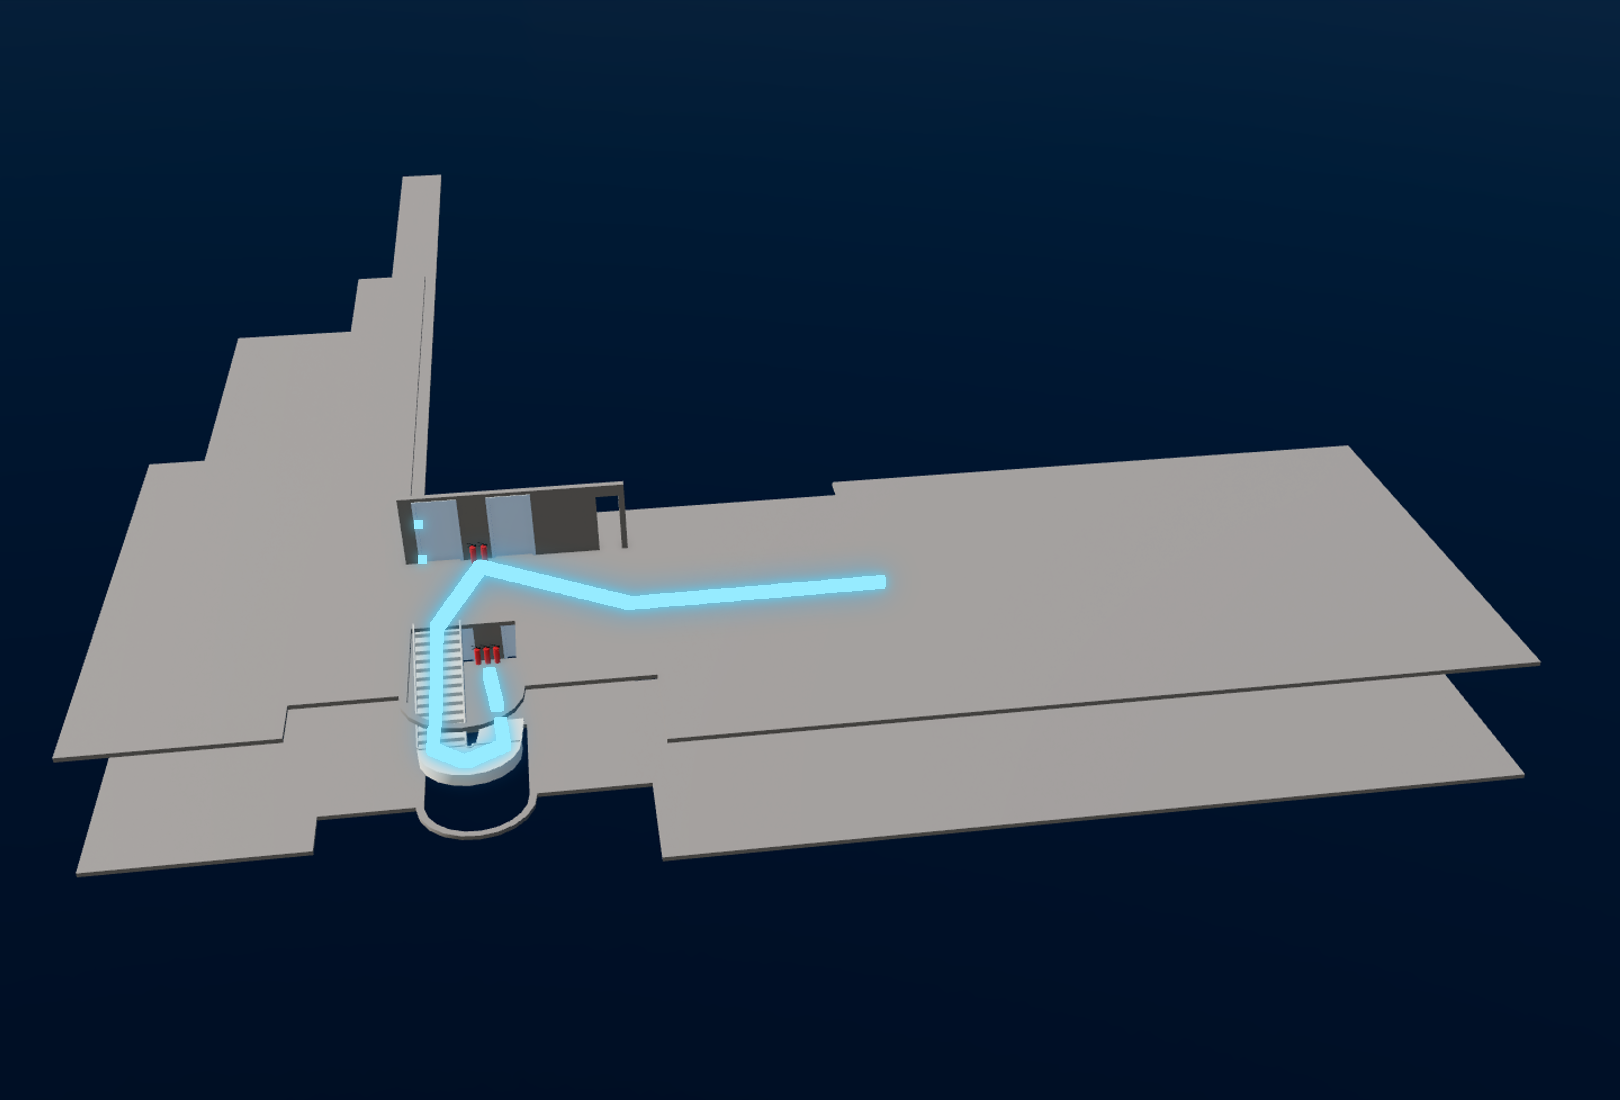
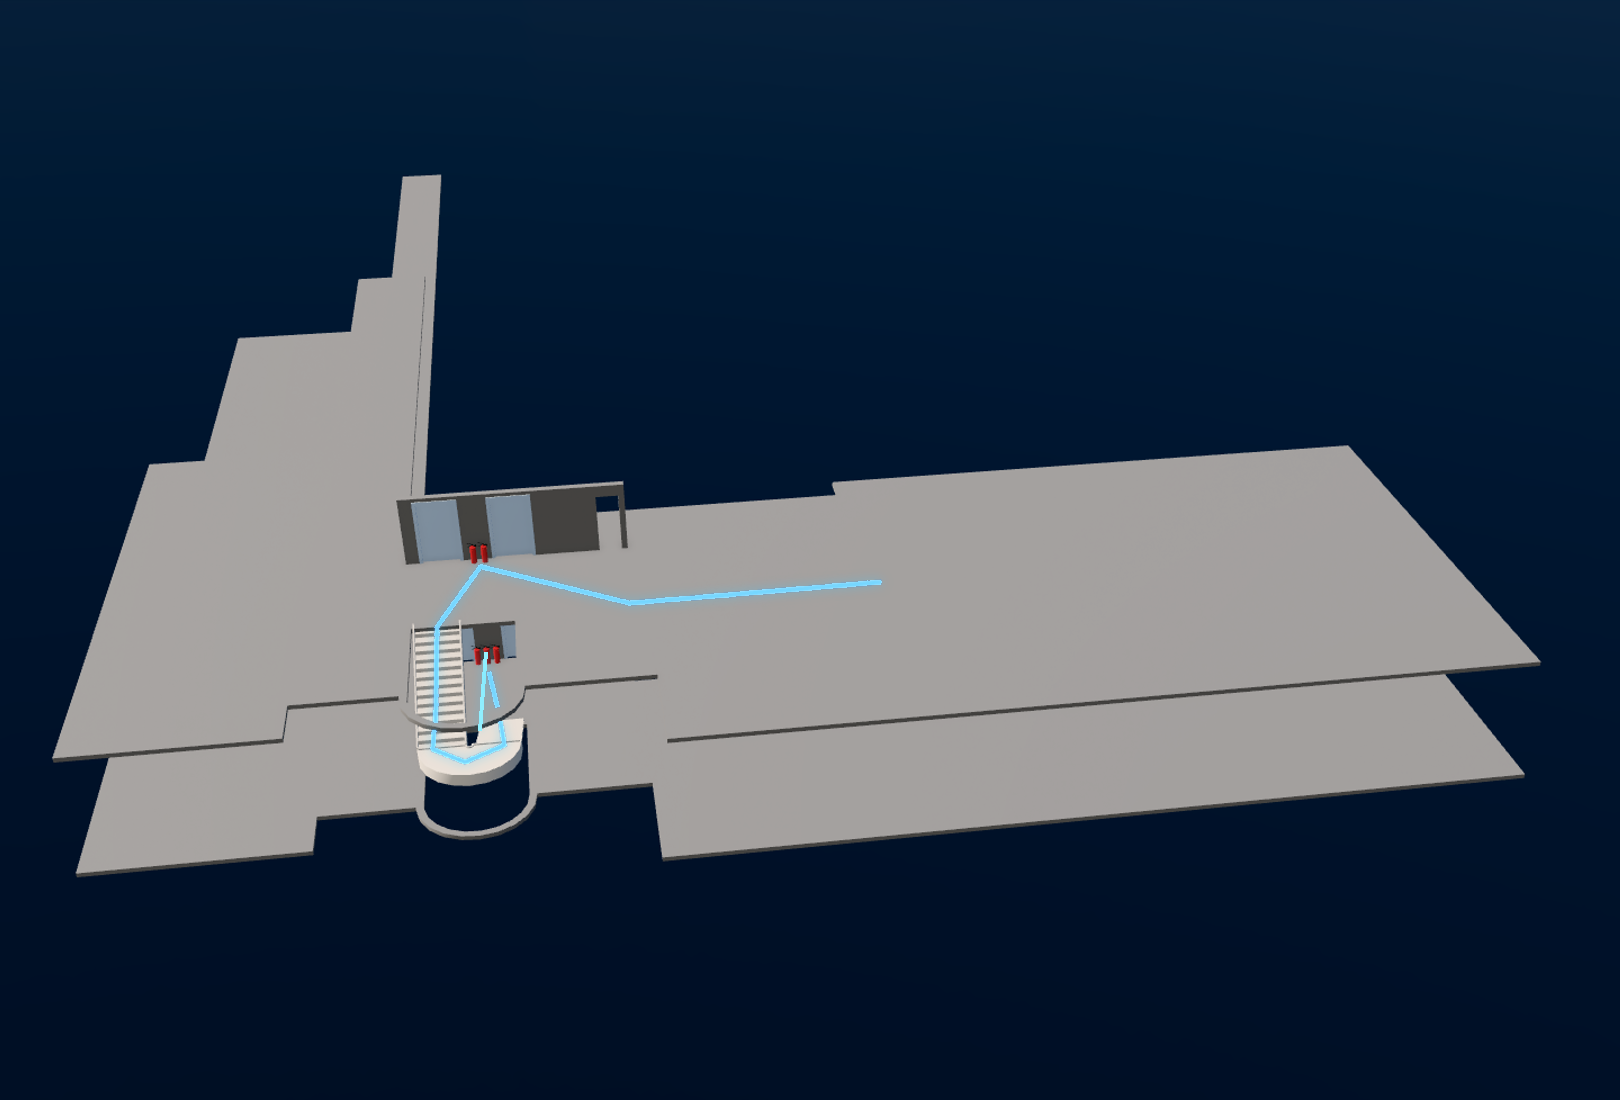
v8.15: thinner path line (regenerated from original), dog 30px

Changed region(s): [[0.2469, 0.4945, 0.5556, 0.7109]]

diff --git a/index.html b/index.html
@@ -366,7 +366,7 @@ select.input{appearance:none}
 #mn-3d.path-mode img.bg3d{left:0;top:0;width:100%;height:100%;object-fit:fill;object-position:50% 50%}
 .mn-path-dog{position:absolute;z-index:9;transform:translate(-50%,-100%);display:none;flex-direction:column;align-items:center;gap:2px;pointer-events:none}
 .mn-path-dog .pd-name{font-size:10px;color:#e6f1ff;background:rgba(8,14,28,.88);border:1px solid var(--border-hi);border-radius:8px;padding:1px 8px;white-space:nowrap;box-shadow:0 2px 8px rgba(0,0,0,.5)}
-.mn-path-dog .pd-dog{width:44px;height:auto;transform:scaleX(-1);filter:drop-shadow(0 0 8px rgba(111,240,255,.6)) drop-shadow(0 3px 5px rgba(0,0,0,.6))}
+.mn-path-dog .pd-dog{width:30px;height:auto;transform:scaleX(-1);filter:drop-shadow(0 0 6px rgba(111,240,255,.6)) drop-shadow(0 2px 4px rgba(0,0,0,.6))}
 #planTrace{position:absolute;inset:0;width:100%;height:100%;pointer-events:none;filter:drop-shadow(0 0 6px rgba(34,211,238,.55))}
 #planTrace .pt-glow{stroke:#22d3ee;stroke-width:11px;opacity:.38;fill:none;stroke-linecap:round;stroke-linejoin:round;vector-effect:non-scaling-stroke;stroke-dasharray:100}
 #planTrace .pt-core{stroke:#cffafe;stroke-width:3.6px;fill:none;stroke-linecap:round;stroke-linejoin:round;vector-effect:non-scaling-stroke;stroke-dasharray:100}
@@ -1340,7 +1340,7 @@ function lg9TogglePwd(btn){
           </svg>
           <div class="plan-loading" id="planLoading"><div class="spin"></div><div class="tx">路径子模型规划及提取中…</div><div class="muted" style="font-size:10px">子模型提取：仅空间 + 重点系统/设备 + 重点位置，不加载全量模型</div></div>
           <div id="planImgWrap" style="display:none;position:relative">
-            <img id="planImg" src="assets/path_fire_patrol.png" alt="路径子模型：消防巡检推荐路径" style="display:block;width:100%;border-radius:10px;border:1px solid rgba(34,211,238,.25)">
+            <img id="planImg" src="assets/path_fire_patrol.png?v=2" alt="路径子模型：消防巡检推荐路径" style="display:block;width:100%;border-radius:10px;border:1px solid rgba(34,211,238,.25)">
             <svg id="planTrace" viewBox="0 0 1620 1100" preserveAspectRatio="none"><path class="pt-glow" pathLength="100" stroke-dashoffset="100" d="M883,579 L779,582 L630,595 L543,605 L480,558 L441,620 L429,660 L424,720 L460,745 L480,730 L486,652"/><path class="pt-core" pathLength="100" stroke-dashoffset="100" d="M883,579 L779,582 L630,595 L543,605 L480,558 L441,620 L429,660 L424,720 L460,745 L480,730 L486,652"/></svg>
           </div>
           <div id="planWeakNote"></div>
@@ -2210,7 +2210,7 @@ function mnPathWalk(){
   const vp = document.getElementById('mn-3d'); if(!vp) return;
   const img = vp.querySelector('img.bg3d'); if(!img) return;
   if(img.dataset.origSrc===undefined) img.dataset.origSrc = img.getAttribute('src');
-  img.src = 'assets/path_fire_patrol.png';
+  img.src = 'assets/path_fire_patrol.png?v=2';
   vp.classList.add('path-mode');
   let dog = document.getElementById('mnPathDog');
   if(!dog){

diff --git a/CHANGELOG.md b/CHANGELOG.md
@@ -134,3 +134,7 @@
 - 路径子模型图：蓝色推荐路径叠加 SVG 发光描边层，图片显示后 3 秒「逐步画出」动画（定时器驱动，兼容各环境）
 - 行走小狗图标水平翻转：头朝左、尾巴朝右（名牌不翻转）
 - 行走路径延伸走完：4F 走廊 → 楼梯下行 → 不再停留梯台 → 终点 3F 消防灭火器点位；到达提示同步改为「已到达 3F 消防灭火器点位」
+
+## v8.15 (2026-09-29)
+- 监控中心路径高亮线调细：从用户原图重新生成（细亮芯+淡光晕），并补画楼梯底部→3F灭火器延伸段
+- 行走小狗图标 44px → 30px，光晕同步收敛；路径图加 ?v=2 防浏览器缓存旧图
